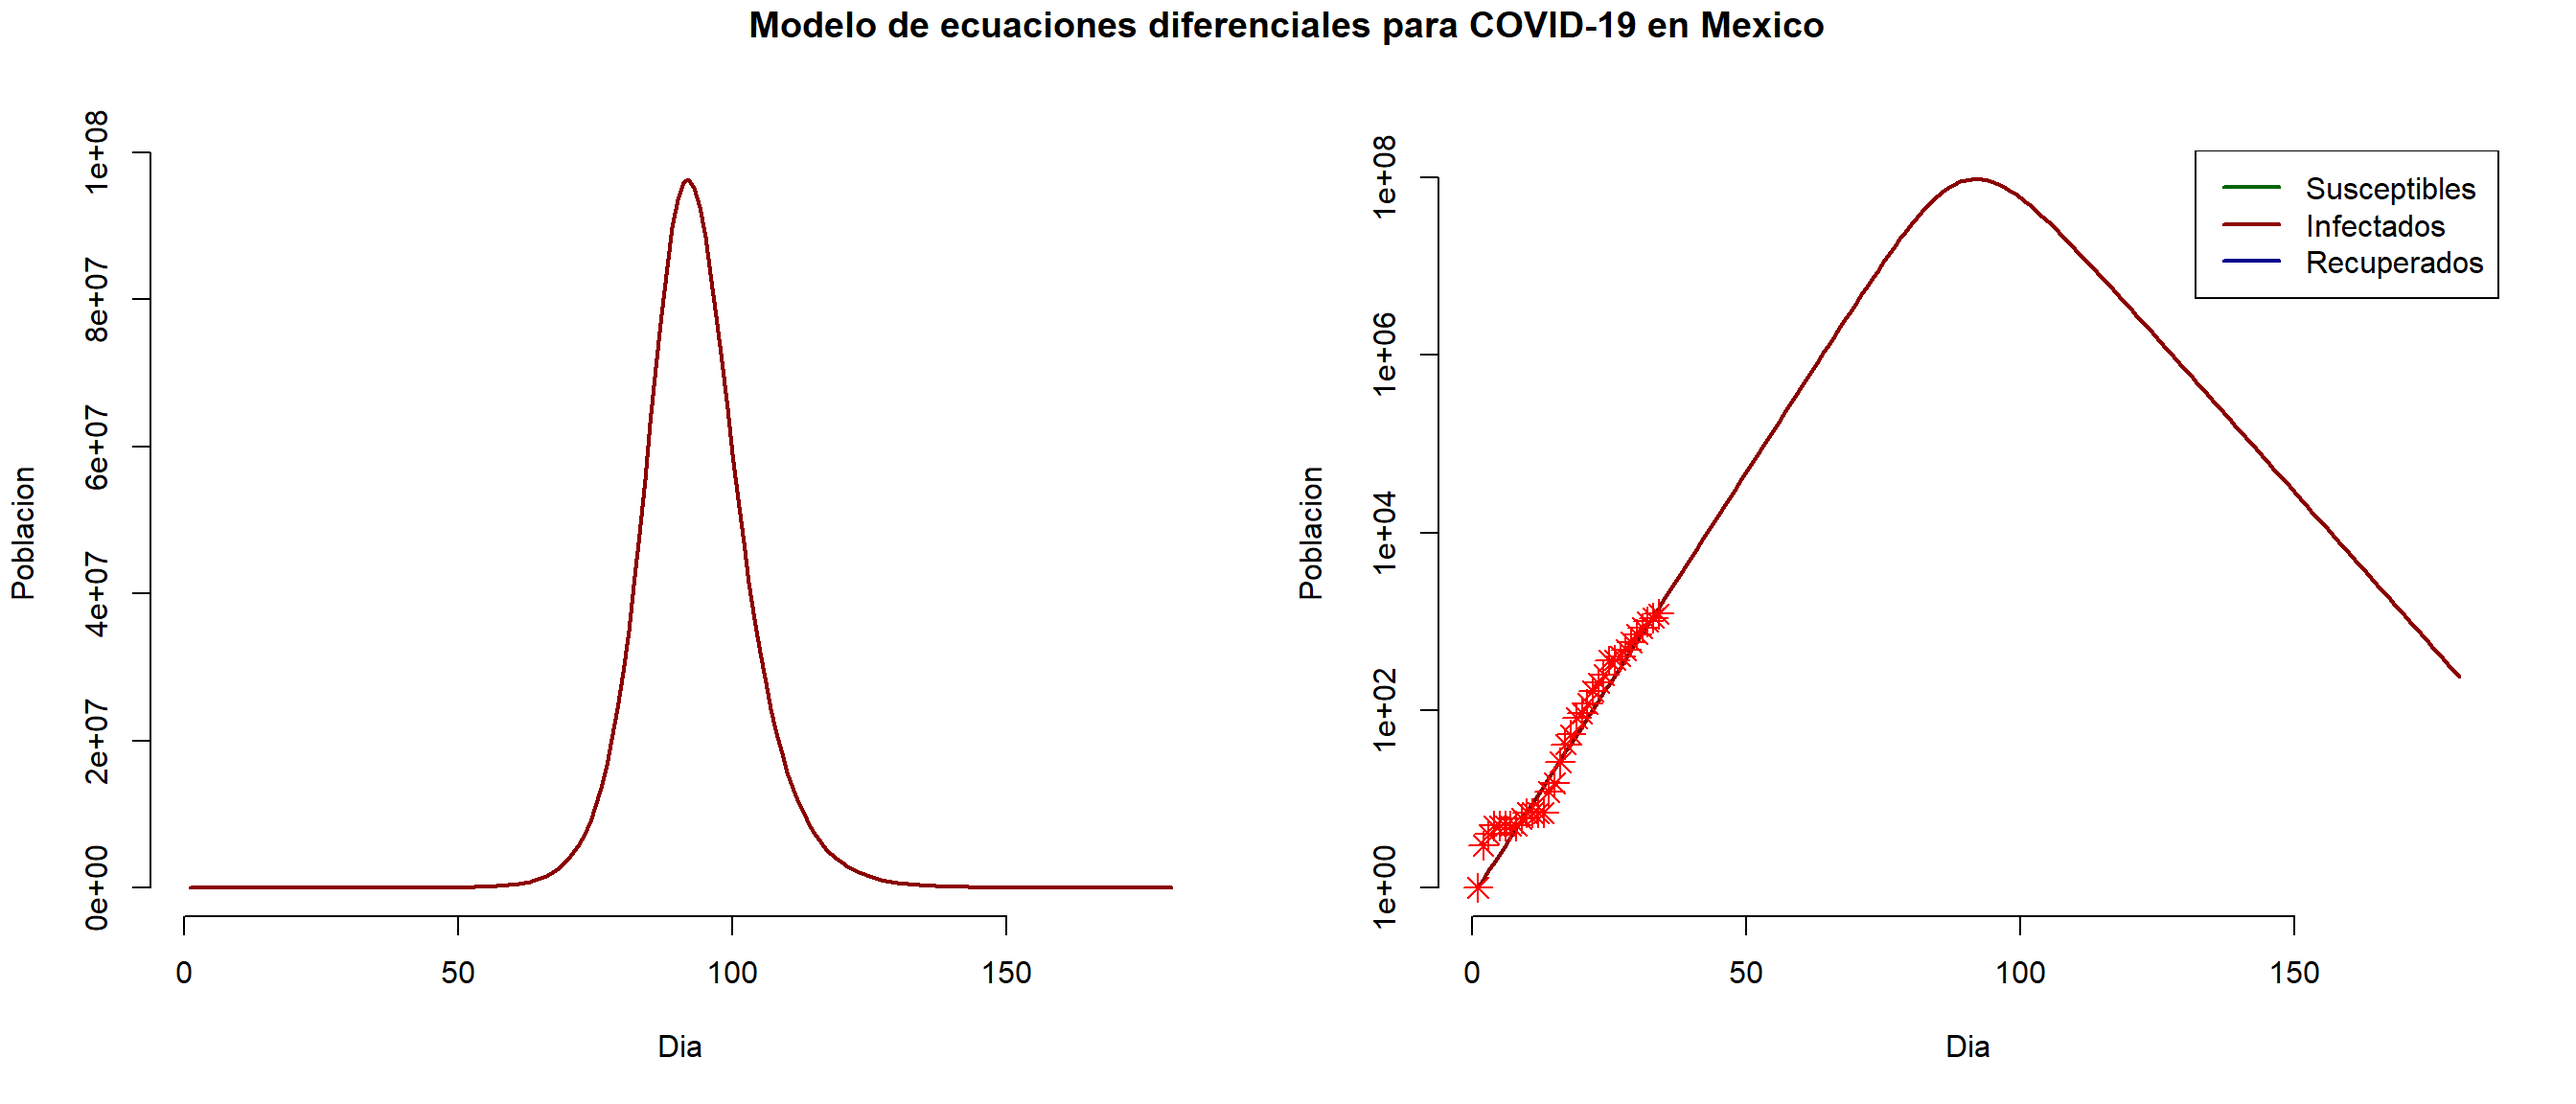
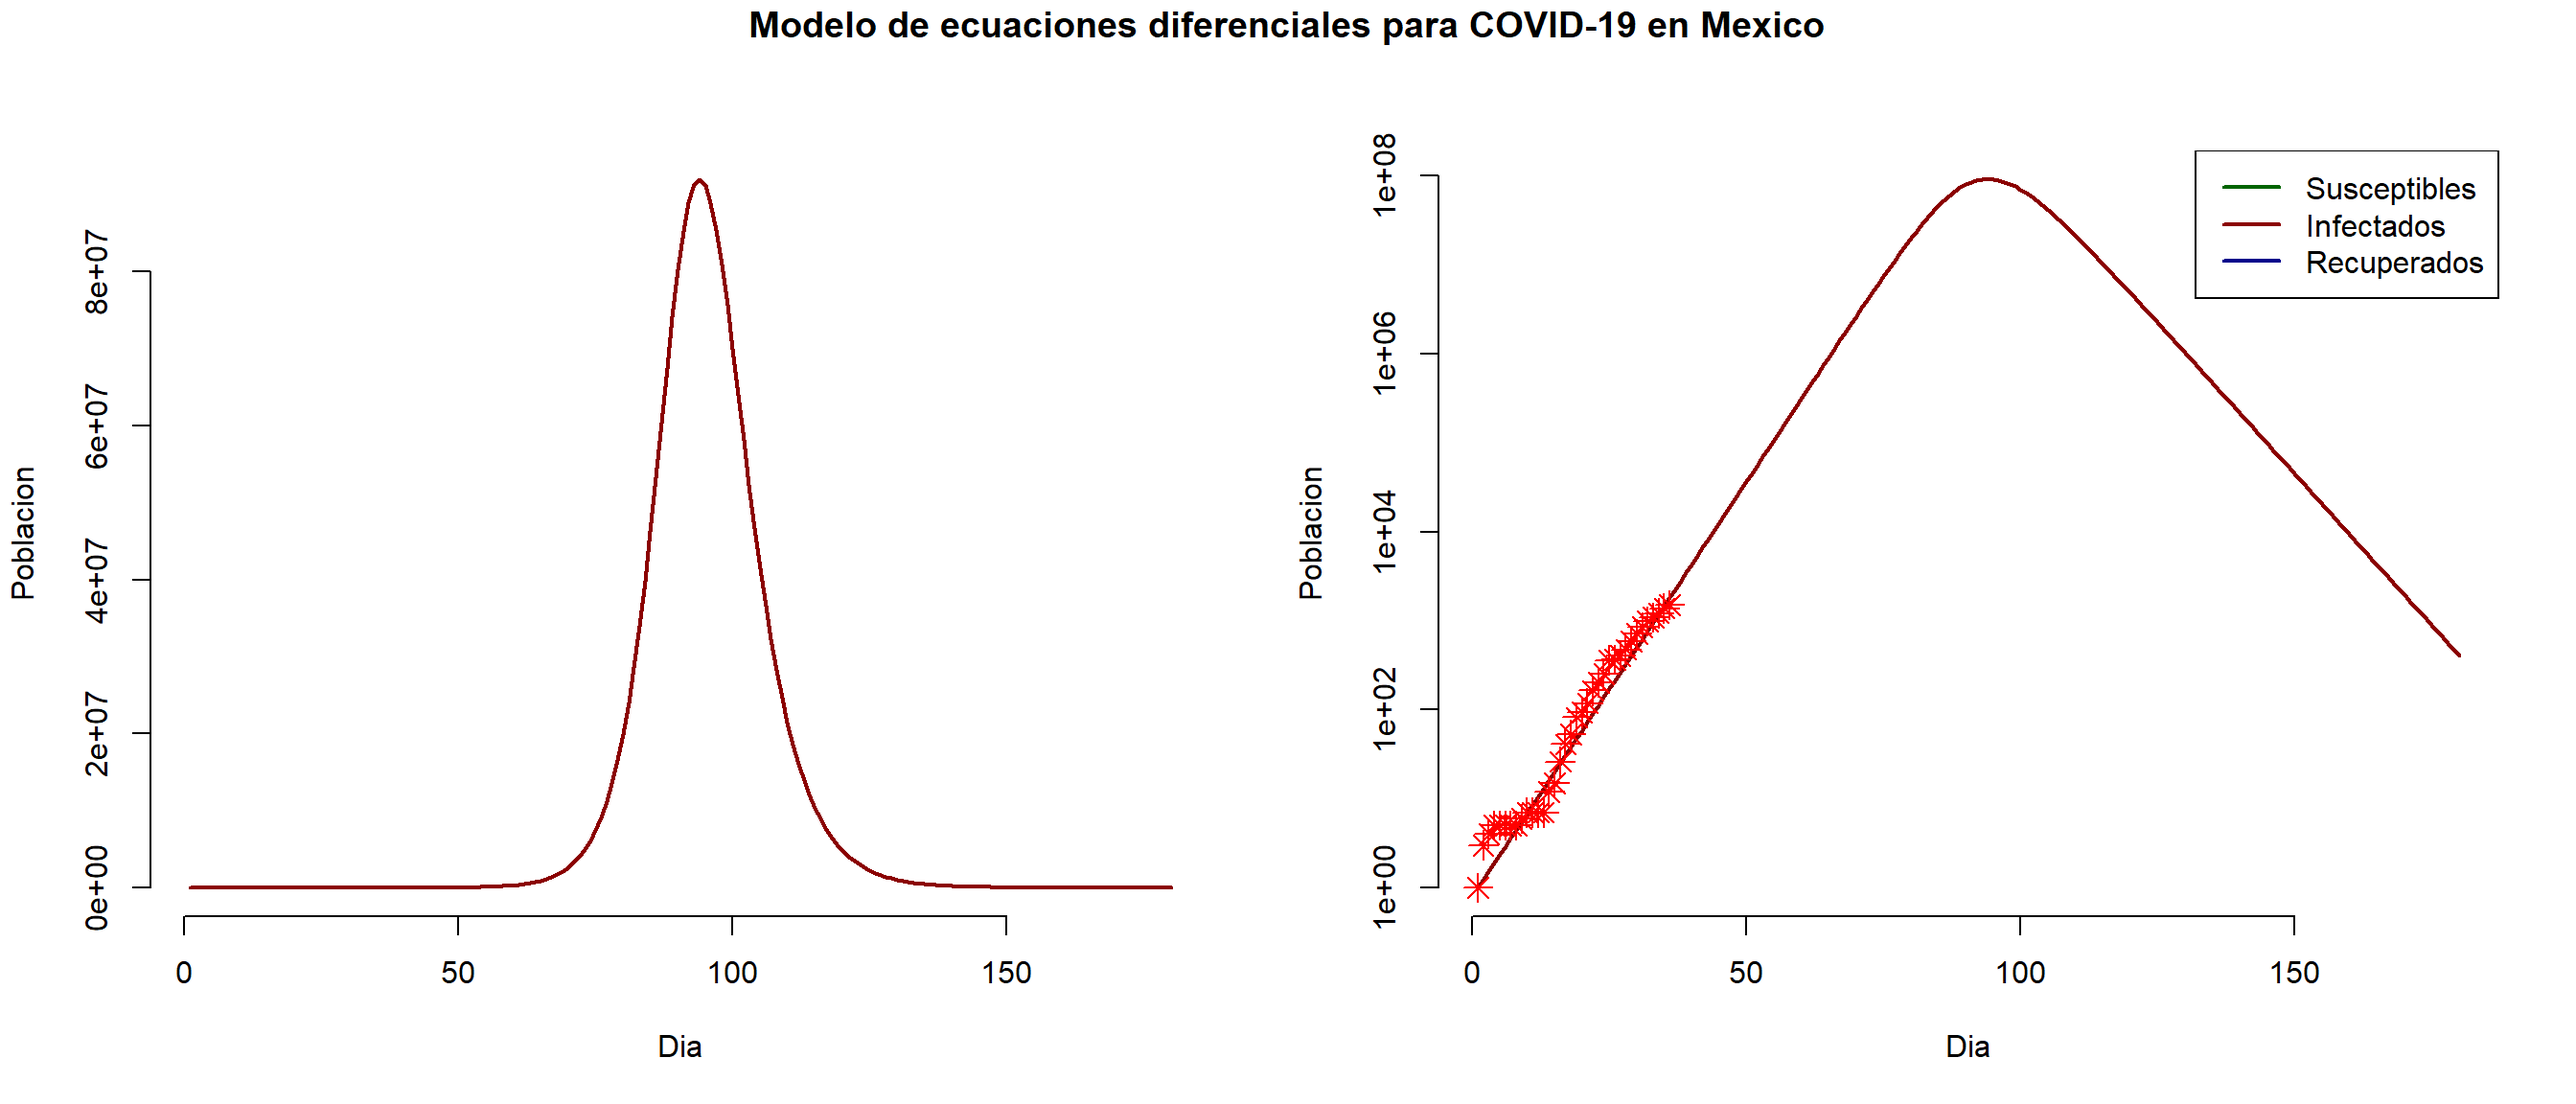
Updated Results

diff --git a/Estimacion_R0.html b/Estimacion_R0.html
@@ -277,7 +277,7 @@ $(document).ready(function () {
   <a href="index.html">Home</a>
 </li>
 <li>
-  <a href="https://jpablo91.github.io/">Quien es Pablo?</a>
+  <a href="https://jpablo91.github.io/">Que es un Pablo?</a>
 </li>
 <li class="dropdown">
   <a href="#" class="dropdown-toggle" data-toggle="dropdown" role="button" aria-expanded="false">
@@ -337,11 +337,11 @@ $(document).ready(function () {
 Usando los datos de el numero de casos, podemos usar optimizadores, como por ejemplo uno que minimize la suma de los cuadrados (Ecuacion a continuacion), para encontrar los parametros de <span class="math inline">\(\beta\)</span> y <span class="math inline">\(\gamma\)</span> para nuestro modelo que tengan un comportamiento mas parecido a los datos observados.</p>
 <p><span class="math display">\[RSS(\beta, \gamma) = \sum_t\left(I(t)-\hat{I}(t)\right)^2\]</span> En donde <span class="math inline">\(I(t)\)</span> es el numero de casos observados y <span class="math inline">\(\hat{I}(t)\)</span> es el numero de casso que nuestro modelo predice.<br />
 Una vez que encontremos esos valores para nuestros parametros <span class="math inline">\(\beta\)</span> y <span class="math inline">\(\gamma\)</span>, podemos usarlos en un modelo de simulacion y realizar predicciones sobre la epidemia.</p>
-<p>Usando los datos proporcionados por secretaria de salud logramos una <strong>Modelo fallo a converger</strong>, y los parametros estimados son: <span class="math inline">\(\beta=\)</span> 0.610083, <span class="math inline">\(\gamma=\)</span> 0.389917 resultando en un <span class="math inline">\(R_0\)</span> de 1.5646483. <span class="math inline">\(R_0\)</span> es un valor utilizado frequentemente para describir el impacto de una enfermedad en la poblacion. Un <span class="math inline">\(R_0 &gt; 1\)</span> significa que la enfermedad causara una epidemia en la poblacion y un <span class="math inline">\(R_0 &lt; 0\)</span> significa que no habra epidemia.</p>
+<p>Usando los datos proporcionados por secretaria de salud logramos una <strong>Buena Convergencia del Modelo</strong>, y los parametros estimados son: <span class="math inline">\(\beta=\)</span> 0.6072526, <span class="math inline">\(\gamma=\)</span> 0.3927474 resultando en un <span class="math inline">\(R_0\)</span> de 1.5461658. <span class="math inline">\(R_0\)</span> es un valor utilizado frequentemente para describir el impacto de una enfermedad en la poblacion. Un <span class="math inline">\(R_0 &gt; 1\)</span> significa que la enfermedad causara una epidemia en la poblacion y un <span class="math inline">\(R_0 &lt; 0\)</span> significa que no habra epidemia.</p>
 <p>A continuacion usamos esos parametros estimados para nuestras ecuaciones por un periodo de 150 dias.<br />
 En el grafico del lado derecho vemos el la poblacion para cada uno de nuestros compartimentos a traves del periodo de tiempo que simulamos, y del lado derecho vemos el logaritmos de los valores de cada compartimento, Los asteriscos rojos en el grafico del lado derecho representan los casos reales reportados por secretaria de salud, esto nos ayuda a visualizar que tan bien nuestro modelo se ajusta a los datos reales.</p>
 <p><img src="Estimacion_R0_files/figure-html/unnamed-chunk-5-1.png" width="1344" /></p>
-<p>Finalmente podemos obtener una extrapolacion de la epidemia. De acuerdo a la extrapolacion, el dia esperado del pico de la epidemia es el dia <strong>92</strong> despues de haber empezado la epidemia con un estimado de 9.636618110^{7} infectados, lo cual puede que sea no muy realista por algunos aspectos que comentaremos a continuacion.</p>
+<p>Finalmente podemos obtener una extrapolacion de la epidemia. De acuerdo a la extrapolacion, el dia esperado del pico de la epidemia es el dia <strong>94</strong> despues de haber empezado la epidemia con un estimado de 9.204863910^{7} infectados, lo cual puede que sea no muy realista por algunos aspectos que comentaremos a continuacion.</p>
 <div id="consideraciones-para-este-tipo-de-modelos." class="section level3">
 <h3>Consideraciones para este tipo de modelos.</h3>
 <p>Este tipo de modelos asume que existe una probabilidad de contactar con un infectado para toda la poblacion, lo cual no es algo cierto en muchos casos. La transmision de enfermedades a nivel individual, frequentemente se ve influida por la red de contactos de cada persona y sabemos que la estructura de esa red de contactos depende de caracteristicas individuales de cada persona, tales como su profesion o ubicacion geografica, algo que en este modelo no estamos representando.<br />

diff --git a/Estimaciones_R_Instantaneo.html b/Estimaciones_R_Instantaneo.html
@@ -277,7 +277,7 @@ $(document).ready(function () {
   <a href="index.html">Home</a>
 </li>
 <li>
-  <a href="https://jpablo91.github.io/">Quien es Pablo?</a>
+  <a href="https://jpablo91.github.io/">Que es un Pablo?</a>
 </li>
 <li class="dropdown">
   <a href="#" class="dropdown-toggle" data-toggle="dropdown" role="button" aria-expanded="false">
@@ -346,7 +346,7 @@ Los datos que utilizare fueron colectados por Gabriel Carranco basados en la inf
 <p><img src="Estimaciones_R_Instantaneo_files/figure-html/unnamed-chunk-6-1.png" width="1440" /></p>
 <p>Suponiendo que el numero de casos reportados refleja con certeza la progresion de la enfermedad, nuestro analisis nos muestra que estados van en asencion en cuanto a la transmision y en cuales va decreciendo. Quiero destacar que existe mucha incertidumbre en varios de los estados, lo cual nos da una idea del posible valor de R0 pero es dificil estimar un numero en concreto.</p>
 <p>Para los estados de Nuevo Leon y Jalisco se aprecia que el <span class="math inline">\(R_e\)</span> ha decrecido en los ultimos dias hasta llegar cerca de la linea que marca el 1 y se debe mantener asi si queremos eliminar la transmision local. No hay que confiarze de este gráfico y pensar que la epidemia ya esta controlada en Jalisco y NL, dado al tipo de muestreo que se esta llevando a cabo podría estar subestimando el numero de casos.</p>
-<p>Unos de los estados que mas destacan son Coahuila y Tabasco, ya que en los ultimos dias la incertidumbre llega hasta calcular un R0 de casi 30 y 15 respectivamente, lo cual es demasiado. Habria que examinar los datos mas a detalle para ver que es lo que esta pasando. Recordemos que este analiss esta basado en el numero de individuos detectados y no necesariamente el numero total de infectados. El hecho de que el <span class="math inline">\(R_e\)</span> vaya en aumento, tambien podria reflejar el incremento en los esfuerzos de deteccion de la enfermedad.</p>
+<p>Algunos de los estados que mas destacan son Coahuila y Tabasco, ya que en los ultimos dias la incertidumbre llega hasta calcular un R0 de casi 30 y 15 respectivamente, lo cual es demasiado. Habria que examinar los datos mas a detalle para ver que es lo que esta pasando. Recordemos que este analiss esta basado en el numero de individuos detectados y no necesariamente el numero total de infectados. El hecho de que el <span class="math inline">\(R_e\)</span> vaya en aumento, tambien podria reflejar el incremento en los esfuerzos de deteccion de la enfermedad.</p>
 <p>En resumen, algunas de estas herramientas podrian ser utilizadas para informar los lugares en los que la enfermedad va en asenso y otros lugares que necesitan mas esfuerzos en cuanto a la deteccion de la enfermedad. Estas estimaciones podrian ser mucho mas acertadas con datos mas certeros sobre los el numero de infectados, ya que una de las principales prioridades en cuanto al muestreo es muestrear a aquellos que tuvieron historial de viaje o contato con viajeros, lo cual solo tendera a incrementara el numero de infectados importados y no los locales, el cual muy bien podria ser el caso de Jalisco y NL.</p>
 </div>
 <div id="apendice" class="section level1">
